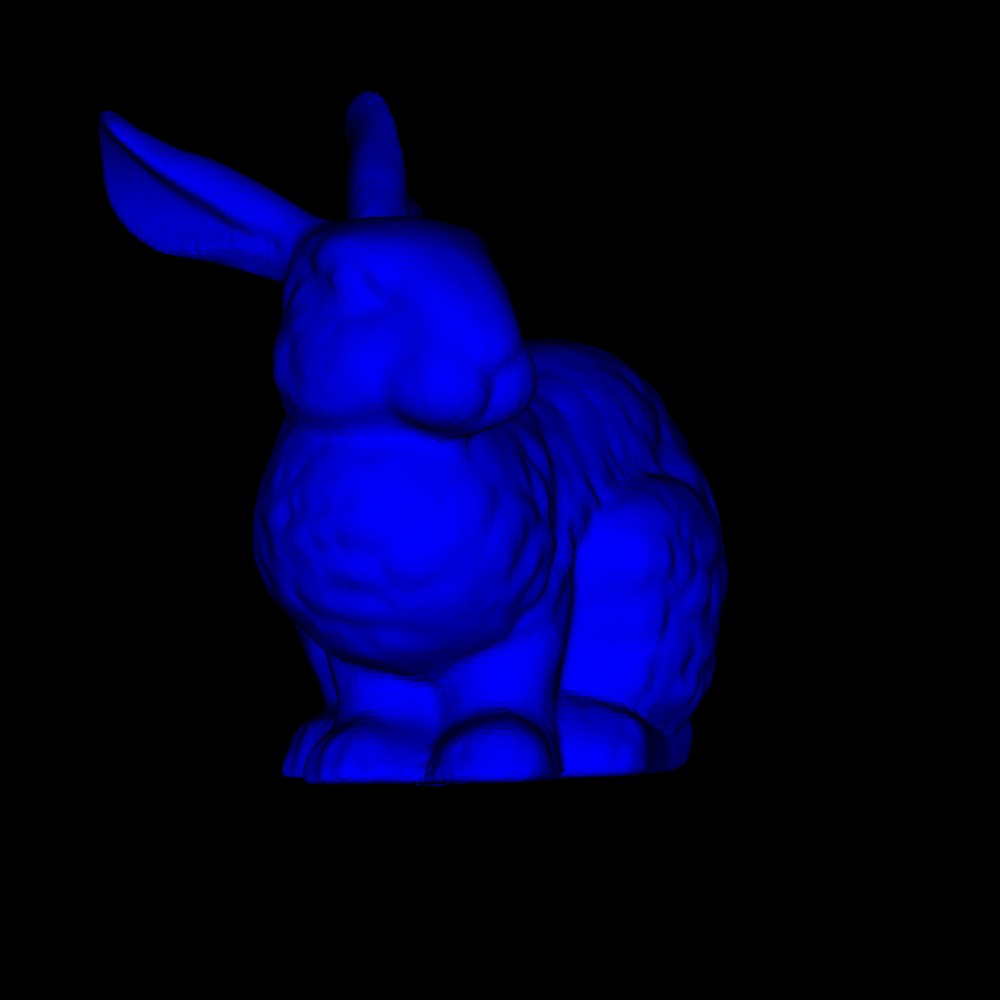
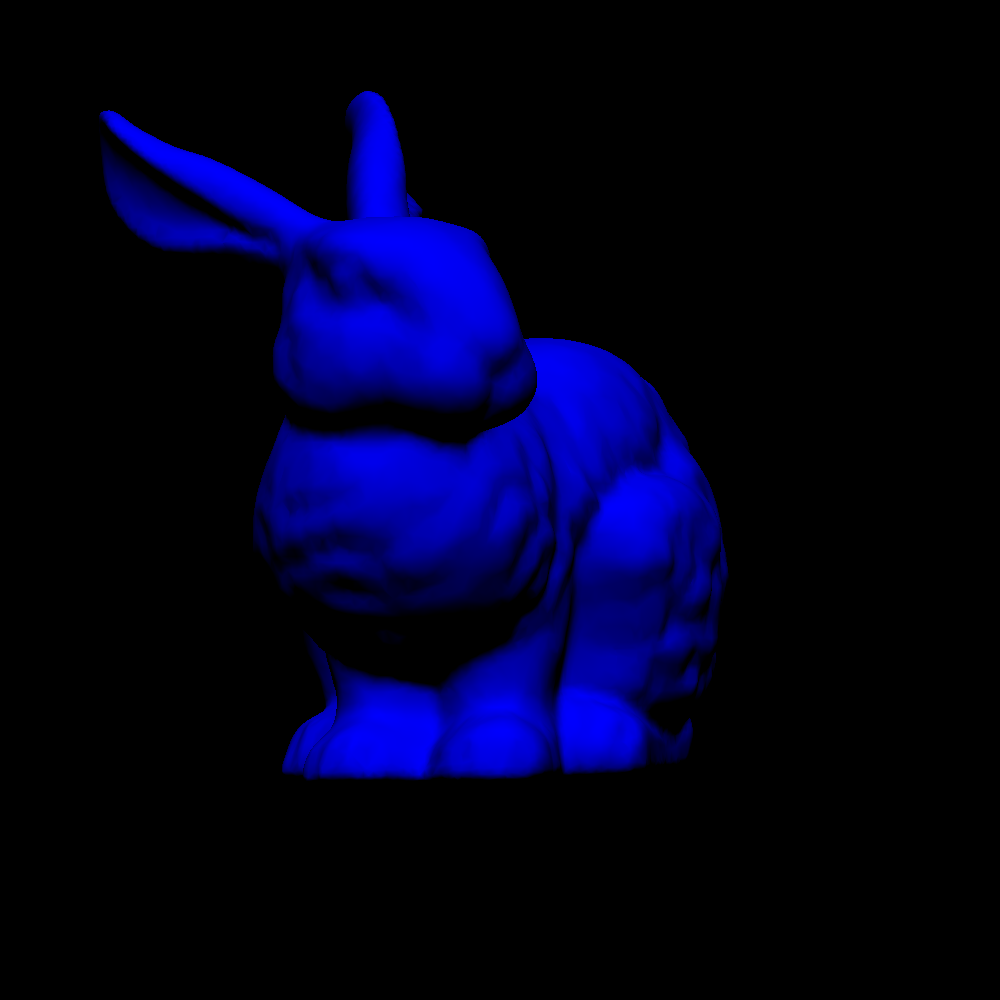
Task 17

Changed region(s): [[0.093, 0.093, 0.744, 0.806]]

diff --git a/lab1.py b/lab1.py
@@ -1,25 +1,25 @@
-
 import numpy as np
 from random import randint
 from PIL import Image
 from math import *
 
 
-
 def dotted_line(image, x0, y0, x1, y1, count, color):
-    step = 1.0/count
-    for t in np.arange (0, 1, step):
-        x = round ((1.0 - t)*x0 + t*x1)
-        y = round ((1.0 - t)*y0 + t*y1)
+    step = 1.0 / count
+    for t in np.arange(0, 1, step):
+        x = round((1.0 - t) * x0 + t * x1)
+        y = round((1.0 - t) * y0 + t * y1)
         image[y, x] = color
+
 
 def dotted_line_2(image, x0, y0, x1, y1, color):
-    count = sqrt((x0 - x1)**2 + (y0 - y1)**2)
-    step = 1.0/count
-    for t in np.arange (0, 1, step):
-        x = round ((1.0 - t)*x0 + t*x1)
-        y = round ((1.0 - t)*y0 + t*y1)
+    count = sqrt((x0 - x1) ** 2 + (y0 - y1) ** 2)
+    step = 1.0 / count
+    for t in np.arange(0, 1, step):
+        x = round((1.0 - t) * x0 + t * x1)
+        y = round((1.0 - t) * y0 + t * y1)
         image[y, x] = color
+
 
 def x_loop_line(image, x0, y0, x1, y1, color):
     xchange = False
@@ -32,9 +32,9 @@ def x_loop_line(image, x0, y0, x1, y1, color):
         x0, x1 = x1, x0
         y0, y1 = y1, y0
 
-    for x in range (x0, x1):
-        t = (x-x0)/(x1 - x0)
-        y = round ((1.0 - t)*y0 + t*y1)
+    for x in range(x0, x1):
+        t = (x - x0) / (x1 - x0)
+        y = round((1.0 - t) * y0 + t * y1)
         if (xchange):
             image[x, y] = color
         else:
@@ -66,51 +66,54 @@ def brezn_line(image, x0, y0, x1, y1, color):
             derror -= 2 * (x1 - x0)
             y += y_update
 
-#image_matrix = np.zeros((200, 200, 3), dtype = np.uint8)
 
-#dotted_line(image_matrix, 0, 0, 200, 200, 100,255)
+# image_matrix = np.zeros((200, 200, 3), dtype = np.uint8)
 
-#dotted_line_2(image_matrix, 0, 0, 200, 200, 255)
+# dotted_line(image_matrix, 0, 0, 200, 200, 100,255)
 
-#x_loop_line(image_matrix, 200, 200, 0, 0, 255)
+# dotted_line_2(image_matrix, 0, 0, 200, 200, 255)
 
-#for i in range(0,13):
-    #brezn_line(image_matrix, 100, 100, int(100+95*cos(2*pi*i/13)), int(100+95*sin(2*pi*i/13)),255)
+# x_loop_line(image_matrix, 200, 200, 0, 0, 255)
+
+# for i in range(0,13):
+# brezn_line(image_matrix, 100, 100, int(100+95*cos(2*pi*i/13)), int(100+95*sin(2*pi*i/13)),255)
 
 
-
-name = './/models//model_1.obj' #Название модели
+name = './/models//model_1.obj'  # Название модели
 vertices = []
 wares = []
+normali = []
 f = open(name)
 line = "aaa"
-while line :
+while line:
     line = f.readline()
-    if (line[:2]== "v " ):
+    if (line[:2] == "v "):
         dot = line.split()
         dot = dot[1:]
-        vertices.append(list(map(float,dot)))
+        vertices.append(list(map(float, dot)))
+    if (line[:3] == "vn "):
+        dot = line.split()
+        dot = dot[1:]
+        normali.append(list(map(float, dot)))
     if (line[:2] == "f "):
         ware = line.split()
         ware = ware[1:]
-        a = int(ware[0].split("/")[0])
-        b = int(ware[1].split("/")[0])
-        c = int(ware[2].split("/")[0])
-        wares.append([a,b])
-        wares.append([b,c])
-        wares.append([c,a])
+        a = ware[0].split("/")
+        b = ware[1].split("/")
+        c = ware[2].split("/")
+        wares.append(a)
+        wares.append(b)
+        wares.append(c)
 
 f.close()
 
 width = 1000
 height = 1000
 
-image_matrix = np.zeros((1000, 1000, 3), dtype = np.uint8)
-image_matrix_wareframe = np.zeros((1000, 1000, 3), dtype = np.uint8)
+image_matrix = np.zeros((1000, 1000, 3), dtype=np.uint8)
+image_matrix_wareframe = np.zeros((1000, 1000, 3), dtype=np.uint8)
 
-
-
-x_offset = 0 # Отступы, поменять если выдаёт ошибку
+x_offset = 0  # Отступы, поменять если выдаёт ошибку
 y_offset = -0.04
 z_offset = 1
 x_offset_screen = 500
@@ -119,26 +122,27 @@ y_offset_screen = 500
 alpha = 0
 betta = -120
 gamma = 0
-x_scale = 7000 # Масштаб, поменять если модель не видно
+x_scale = 7000  # Масштаб, поменять если модель не видно
 y_scale = 7000
 
+l = np.array([0, -1, 1])
 
-
-OldMaxX = max(map(max,vertices))
-OldMinX = min(map(min,vertices))
-OldMaxY = max(map(max,vertices))
-OldMinY = min(map(min,vertices))
+OldMaxX = max(map(max, vertices))
+OldMinX = min(map(min, vertices))
+OldMaxY = max(map(max, vertices))
+OldMinY = min(map(min, vertices))
 
 alpha = alpha * np.pi / 180
 betta = betta * np.pi / 180
 gamma = gamma * np.pi / 180
 
-#def mapNorm(OldValue,OldMin,OldMax,NewMin,NewMax):
+
+# def mapNorm(OldValue,OldMin,OldMax,NewMin,NewMax):
 #    OldRange = (OldMax - OldMin)
 #    NewRange = (NewMax - NewMin)
 #    return (((OldValue - OldMin) * NewRange) / OldRange) + NewMin
 #
-#for i in range(0,len(wares)):
+# for i in range(0,len(wares)):
 #    x0 = int((vertices[wares[i][0]-1][0] + x_offset) * x_scale)
 #    y0 = int((vertices[wares[i][0]-1][1] + y_offset) * y_scale)
 #    x1 = int((vertices[wares[i][1]-1][0] + x_offset) * x_scale)
@@ -150,8 +154,8 @@ gamma = gamma * np.pi / 180
 #
 #    brezn_line(image_matrix_wareframe, x0, y0, x1, y1,255)
 #
-#img = Image.fromarray(np.flip(image_matrix_wareframe), mode = 'RGB')
-#img.save(name + 'wareframe'+'.png')
+# img = Image.fromarray(np.flip(image_matrix_wareframe), mode = 'RGB')
+# img.save(name + 'wareframe'+'.png')
 
 
 def BarCoord(x, y, x0, y0, x1, y1, x2, y2):
@@ -165,44 +169,38 @@ def BarCoord(x, y, x0, y0, x1, y1, x2, y2):
     return lambda0, lambda1, lambda2
 
 
-z_buffer = np.zeros((1000, 1000), dtype = np.float32)
+z_buffer = np.zeros((1000, 1000), dtype=np.float32)
 z_buffer[0:1000, 0:1000] = np.inf
 
-
-
-#Матрица поворота
-m1 = np.array([[1, 0, 0], [0, cos(alpha), sin(alpha)], [0, -sin(alpha), cos(alpha)]], dtype = np.float32)
-m2 = np.array([[cos(betta), 0, sin(betta)], [0, 1, 0], [-sin(betta), 0, cos(betta)]], dtype = np.float32)
-m3 = np.array([[cos(gamma), sin(gamma), 0], [-sin(gamma), cos(gamma), 0], [0, 0, 1]], dtype = np.float32)
+# Матрица поворота
+m1 = np.array([[1, 0, 0], [0, cos(alpha), sin(alpha)], [0, -sin(alpha), cos(alpha)]], dtype=np.float32)
+m2 = np.array([[cos(betta), 0, sin(betta)], [0, 1, 0], [-sin(betta), 0, cos(betta)]], dtype=np.float32)
+m3 = np.array([[cos(gamma), sin(gamma), 0], [-sin(gamma), cos(gamma), 0], [0, 0, 1]], dtype=np.float32)
 
 R = np.matmul(np.matmul(m1, m2), m3)
 
-
-
-
 print(OldMinX, OldMaxX, OldMinY, OldMaxY)
 
-for i in range(0,int(len(wares)),3):
+for i in range(0, int(len(wares)), 3):
     progress = len(wares)
     if i % 1000 == 0:
         print(i, "/", progress)
 
+    x0 = vertices[int(wares[i][0]) - 1][0]
+    y0 = vertices[int(wares[i][0]) - 1][1]
+    z0 = vertices[int(wares[i][0]) - 1][2]
+    x1 = vertices[int(wares[i + 1][0]) - 1][0]
+    y1 = vertices[int(wares[i + 1][0]) - 1][1]
+    z1 = vertices[int(wares[i + 1][0]) - 1][2]
+    x2 = vertices[int(wares[i + 2][0]) - 1][0]
+    y2 = vertices[int(wares[i + 2][0]) - 1][1]
+    z2 = vertices[int(wares[i + 2][0]) - 1][2]
 
-    x0 = vertices[wares[i][0]-1][0]
-    y0 = vertices[wares[i][0]-1][1]
-    z0 = vertices[wares[i][0]-1][2]
-    x1 = vertices[wares[i+1][0]-1][0]
-    y1 = vertices[wares[i+1][0]-1][1]
-    z1 = vertices[wares[i+1][0]-1][2]
-    x2 = vertices[wares[i+2][0]-1][0]
-    y2 = vertices[wares[i+2][0]-1][1]
-    z2 = vertices[wares[i+2][0]-1][2]
+    xyz = np.matrix([[x0, x1, x2], [y0, y1, y2], [z0, z1, z2]], dtype=np.float32)
 
-    xyz = np.matrix([[x0, x1, x2], [y0, y1, y2], [z0, z1 , z2 ]], dtype = np.float32)
-
-    xyz = np.matmul(R, xyz) + np.matrix([[x_offset, x_offset, x_offset], [y_offset, y_offset, y_offset], [z_offset, z_offset, z_offset]], dtype = np.float32)
-
-
+    xyz = np.matmul(R, xyz) + np.matrix(
+        [[x_offset, x_offset, x_offset], [y_offset, y_offset, y_offset], [z_offset, z_offset, z_offset]],
+        dtype=np.float32)
 
     x0 = xyz[0, 0]
     y0 = xyz[1, 0]
@@ -214,63 +212,59 @@ for i in range(0,int(len(wares)),3):
     y2 = xyz[1, 2]
     z2 = xyz[2, 2]
 
-
-
-
     v1 = np.array([x1 - x2, y1 - y2, z1 - z2])
     v2 = np.array([x1 - x0, y1 - y0, z1 - z0])
 
     norm = np.cross(v1, v2)
 
-    l = np.array([0, 0, 1])
-
-    angle_between = ((norm[0] * l[0]) + (norm[1] * l[1]) + (norm[2] * l[2])/(sqrt(norm[0] * norm[0] + norm[1] * norm[1] + norm[2] * norm[2]) * sqrt(l[0] * l[0] + l[1] * l[1] + l[2] * l[2])))
-
-    if angle_between < 0:
 
 
-        x0 = x_scale * x0/z0 + x_offset_screen
-        y0 = y_scale * y0/z0 + y_offset_screen
-        x1 = x_scale * x1/z1 + x_offset_screen
-        y1 = y_scale * y1/z1 + y_offset_screen
-        x2 = x_scale * x2/z2 + x_offset_screen
-        y2 = y_scale * y2/z2 + y_offset_screen
+    angle_between = ((norm[0] * l[0]) + (norm[1] * l[1]) + (norm[2] * l[2]) / (
+                sqrt(norm[0] * norm[0] + norm[1] * norm[1] + norm[2] * norm[2]) * sqrt(
+            l[0] * l[0] + l[1] * l[1] + l[2] * l[2])))
 
+    if angle_between > 0:
+        angle_between = 0
 
-
-        xmin = floor(min(x0, x1, x2))
-        if (xmin < 0): xmin = 0
-
-        ymin = floor(min(y0, y1, y2))
-        if (ymin < 0) : ymin = 0
-
-        xmax = ceil(max(x0, x1, x2))
-        if(xmax > 999) : xmax = 999
-
-        ymax = ceil(max(y0, y1, y2))
-        if(ymax > 999) : ymax = 999
+    I0 = np.dot(np.matmul(R, np.array(normali[int(wares[i][2]) - 1])), l) / (
+                np.linalg.norm(np.matmul(R, np.array(normali[int(wares[i][2]) - 1]))) * np.linalg.norm(l))
+    I1 = np.dot(np.matmul(R, np.array(normali[int(wares[i + 1][2]) - 1])), l) / (
+                np.linalg.norm(np.matmul(R, np.array(normali[int(wares[i + 1][2]) - 1]))) * np.linalg.norm(l))
+    I2 = np.dot(np.matmul(R, np.array(normali[int(wares[i + 2][2]) - 1])), l) / (
+                np.linalg.norm(np.matmul(R, np.array(normali[int(wares[i + 2][2]) - 1]))) * np.linalg.norm(l))
 
 
 
+    x0 = x_scale * x0 / z0 + x_offset_screen
+    y0 = y_scale * y0 / z0 + y_offset_screen
+    x1 = x_scale * x1 / z1 + x_offset_screen
+    y1 = y_scale * y1 / z1 + y_offset_screen
+    x2 = x_scale * x2 / z2 + x_offset_screen
+    y2 = y_scale * y2 / z2 + y_offset_screen
 
-        color = [-255 * angle_between, 0, 0]
-        for j in range(xmin, xmax):
-            for k in range(ymin, ymax):
-                l0, l1, l2 = BarCoord(j, k, x0, y0, x1, y1, x2, y2)
-                if (l0 >= 0 and l1 >= 0 and l2 >= 0):
-                    z_val = l0 * z0 + l1 * z1 + l2 * z2
-                    if(z_val < z_buffer[k][j]):
-                        image_matrix[k][j] = color
-                        z_buffer[k][j] = z_val
+    xmin = floor(min(x0, x1, x2))
+    if (xmin < 0): xmin = 0
+    ymin = floor(min(y0, y1, y2))
+    if (ymin < 0): ymin = 0
+    xmax = ceil(max(x0, x1, x2))
+    if (xmax > 999): xmax = 999
+    ymax = ceil(max(y0, y1, y2))
+    if (ymax > 999): ymax = 999
 
+    #color = [-255 * angle_between, 0 ,0]
+    for j in range(xmin, xmax):
+        for k in range(ymin, ymax):
+            l0, l1, l2 = BarCoord(j, k, x0, y0, x1, y1, x2, y2)
+            intensity = (l0 * I0 + l1 * I1 + l2 * I2)
+            if (intensity > 0):
+                intensity = 0
+            color = [-255 * intensity, 0, 0]
+            if (l0 >= 0 and l1 >= 0 and l2 >= 0):
+                z_val = l0 * z0 + l1 * z1 + l2 * z2
+                if (z_val < z_buffer[k][j]):
+                    image_matrix[k][j] = color
+                    z_buffer[k][j] = z_val
 
-
-
-
-
-
-
-
-img = Image.fromarray(np.flip(image_matrix), mode = 'RGB')
+img = Image.fromarray(np.flip(image_matrix), mode='RGB')
 img.save(name + '.png')
-#img.show()
+# img.show()
